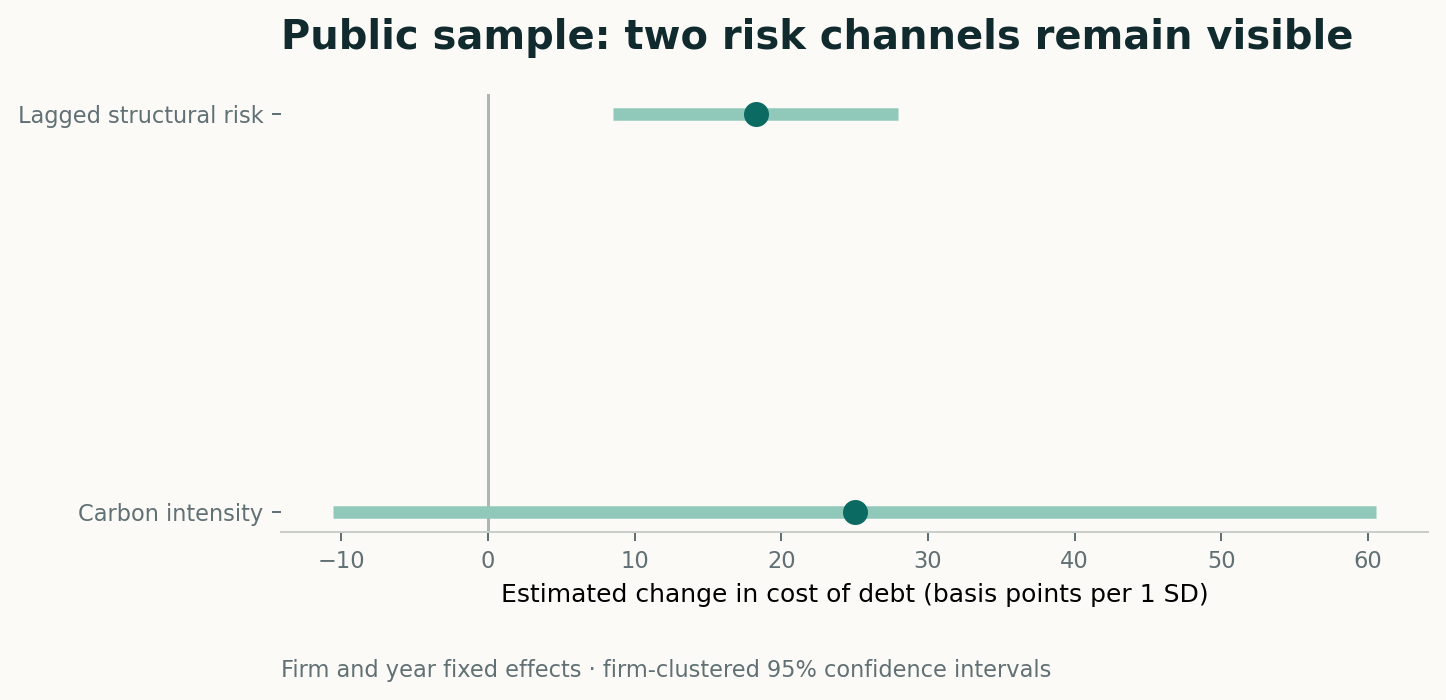
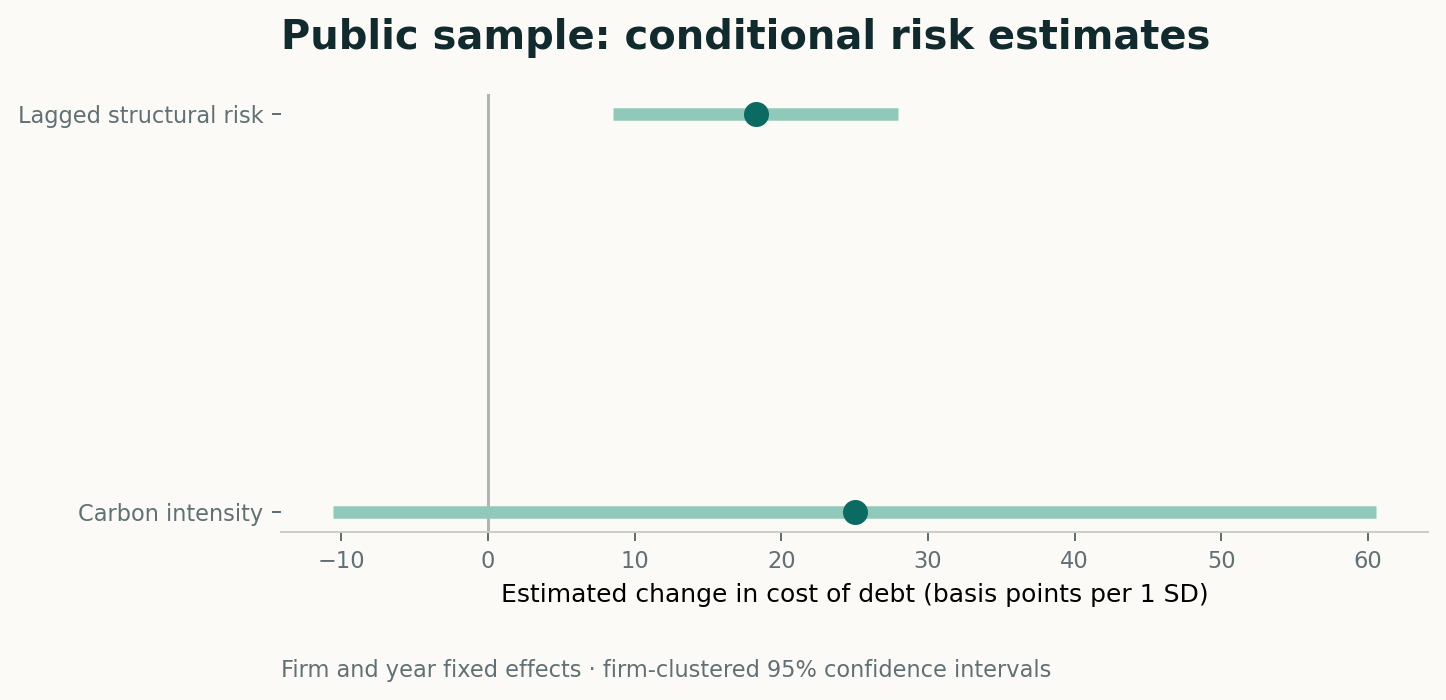
stabilize cross-platform validation

Changed region(s): [[0.4357, 0.03, 0.9336, 0.09]]

diff --git a/tests/test_analysis.py b/tests/test_analysis.py
@@ -1,0 +1,29 @@
+import unittest
+
+import numpy as np
+
+from src.analysis import fit_models, prepare_panel
+
+
+class PublicAnalysisTests(unittest.TestCase):
+    @classmethod
+    def setUpClass(cls) -> None:
+        cls.panel = prepare_panel()
+        cls.models = fit_models(cls.panel)
+
+    def test_lagged_panel_shape(self) -> None:
+        self.assertEqual(len(self.panel), 108)
+        self.assertEqual(self.panel["firm_id"].nunique(), 12)
+
+    def test_public_sample_contains_two_positive_risk_estimates(self) -> None:
+        model = self.models["dual_pricing"]
+        self.assertGreater(model.params["lag_pd_z"], 0.0)
+        self.assertGreater(model.params["carbon_z"], 0.0)
+
+    def test_moderation_model_is_numerically_finite(self) -> None:
+        model = self.models["esg_moderation"]
+        self.assertTrue(np.isfinite(model.params["lag_pd_z:esg_z"]))
+
+
+if __name__ == "__main__":
+    unittest.main()

diff --git a/src/analysis.py b/src/analysis.py
@@ -311,7 +311,11 @@ def main() -> None:
     panel = prepare_panel()
     models = fit_models(panel)
     results = tidy_key_results(models)
-    results.to_csv(OUTPUT_DIR / "public_sample_results.csv", index=False)
+    results.to_csv(
+        OUTPUT_DIR / "public_sample_results.csv",
+        index=False,
+        float_format="%.6f",
+    )
 
     plot_dual_pricing(models)
     plot_sample_panel(panel)
